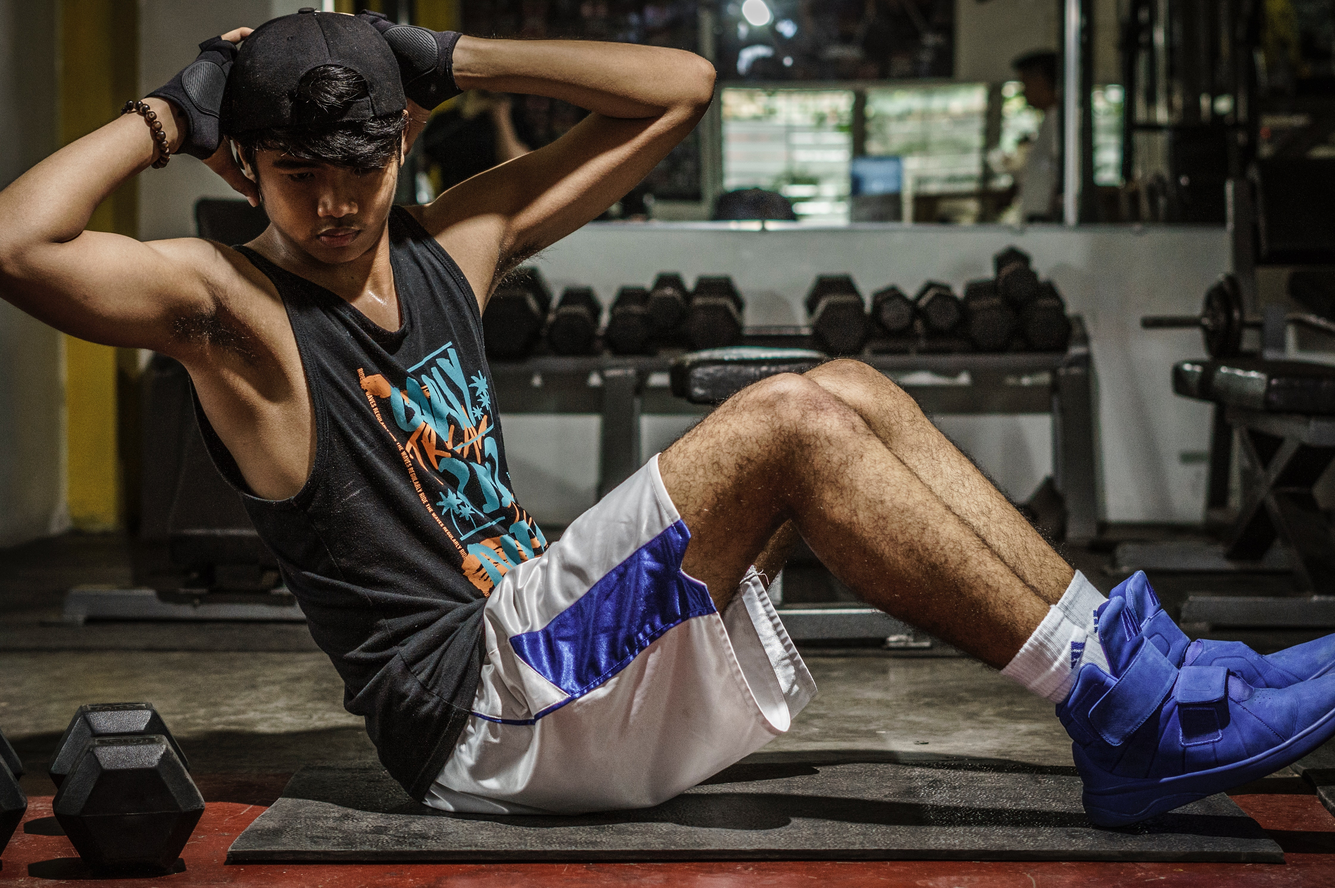
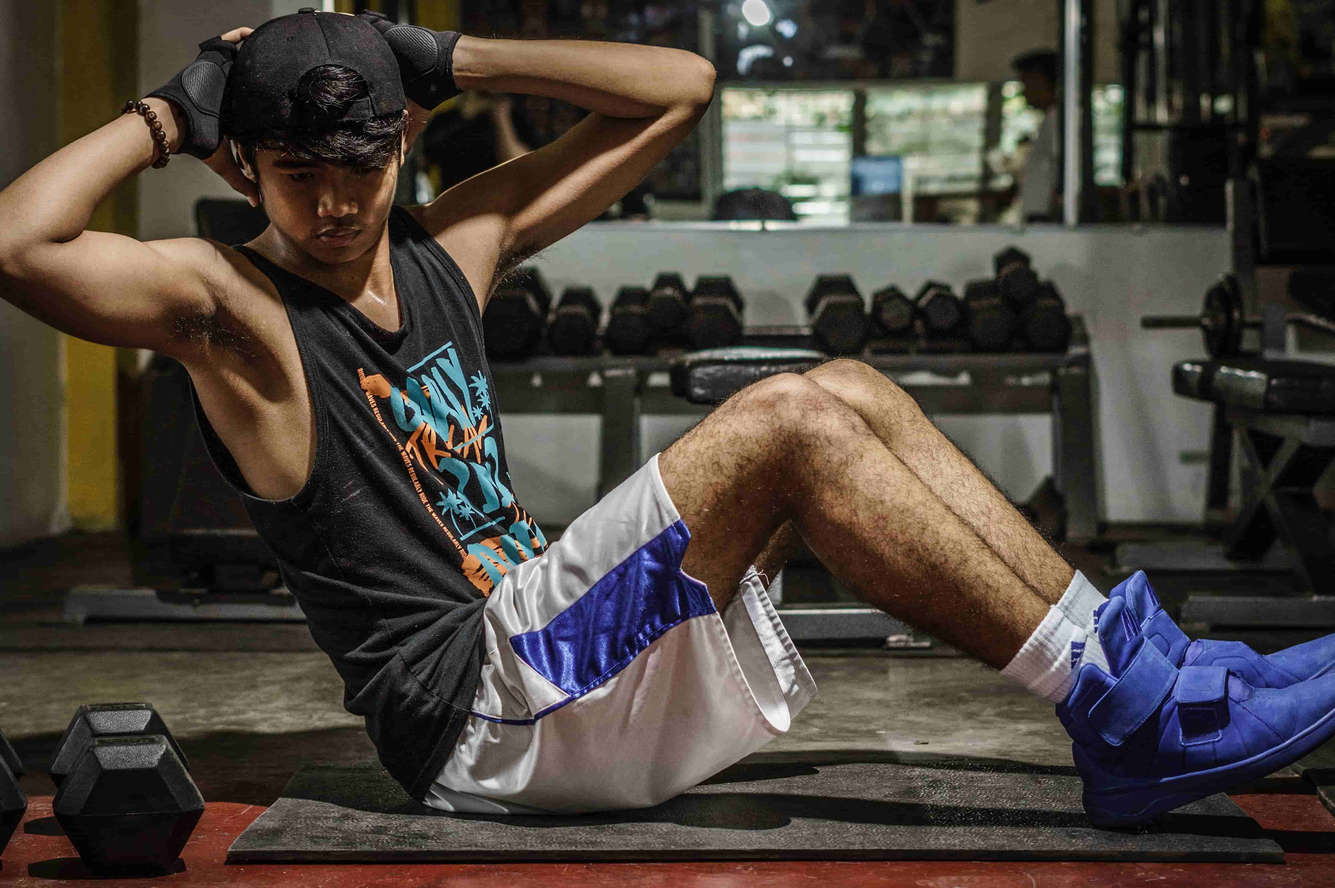
comprimiendo imagenes

diff --git a/css/estilos.css b/css/estilos.css
@@ -423,7 +423,7 @@ header nav div img {
 /*****PAGINA-ELONGACIONES*****/
 .fondo-imagen {
   width: 100%;
-  background-image: url(../img/fondo-elongar.png);
+  background-image: url(../img/fondo-elongar.jpg);
   background-position: center;
   background-size: cover;
   background-repeat: no-repeat; }

diff --git a/css/style.css b/css/style.css
@@ -564,7 +564,7 @@ footer div a img {
 /*****MAIN*****/
 .fondo-imagen {
     width: 100%;
-    background-image: url(../img/fondo-elongar.png);
+    background-image: url(../img/fondo-elongar.jpg);
     background-position: center;
     background-size: cover;
     background-repeat: no-repeat;

diff --git a/scss/components/_elongaciones.scss b/scss/components/_elongaciones.scss
@@ -1,7 +1,7 @@
 /*****PAGINA-ELONGACIONES*****/
 .fondo-imagen {
     width: 100%;
-    background-image: url(../img/fondo-elongar.png);
+    background-image: url(../img/fondo-elongar.jpg);
     background-position: center;
     background-size: cover;
     background-repeat: no-repeat;
